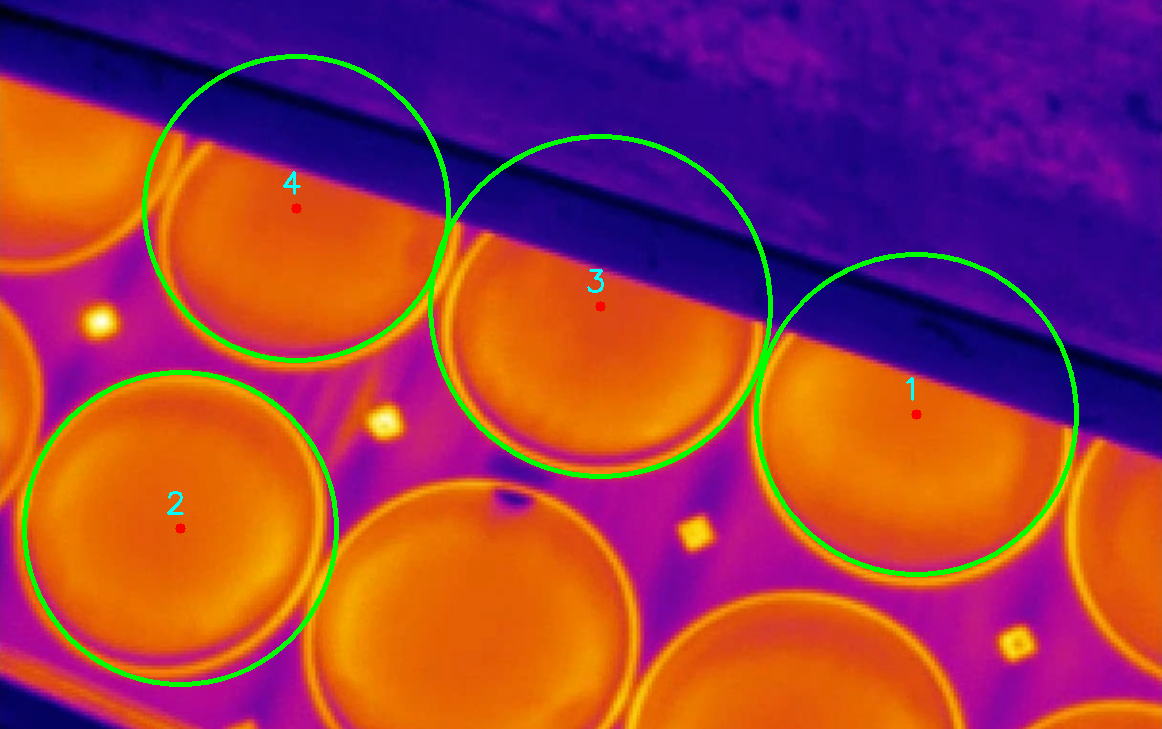
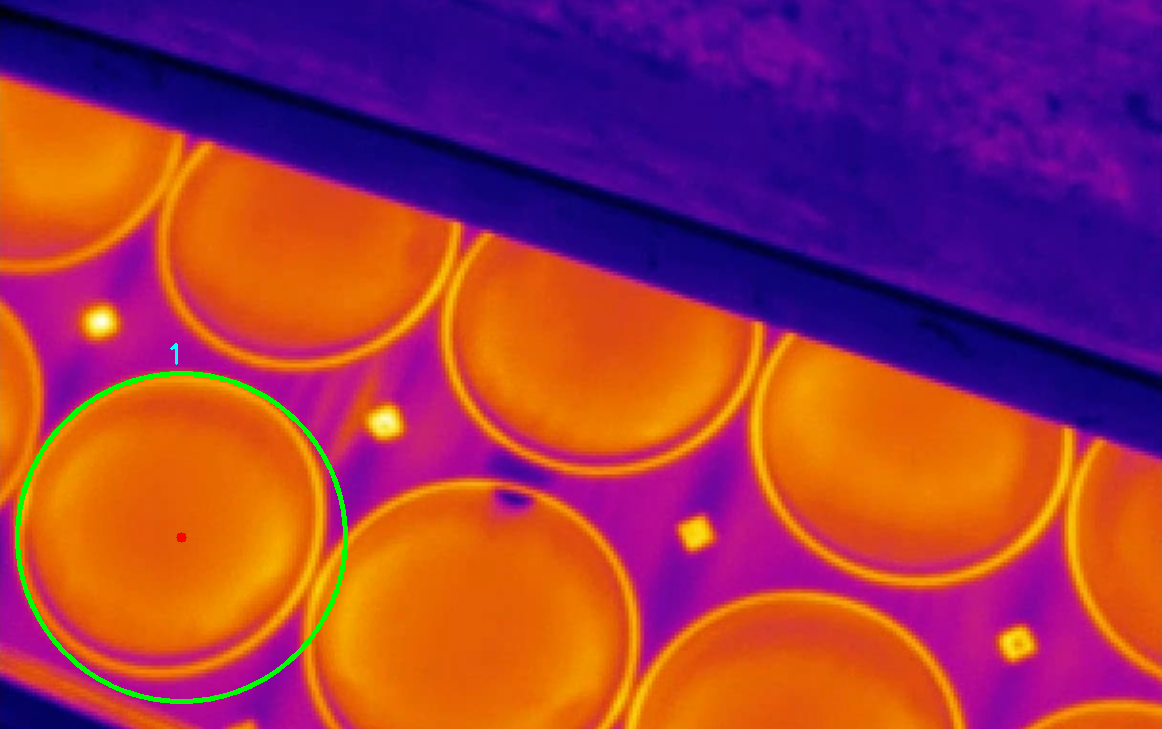
More accurate results, image 1, 5, 6, 7 detect right amount of circles, 1 is mis estimated

diff --git a/batch_processor.py b/batch_processor.py
@@ -34,6 +34,92 @@ class ImprovedCircleDetector:
 
         return enhanced
 
+
+    def define_ROI_thermal(self, show=False):
+        """Enhanced ROI detection for thermal images using multiple approaches."""
+        # Method 1: HSV color-based detection (your original approach)
+        hsv = cv2.cvtColor(self.original, cv2.COLOR_BGR2HSV)
+        
+        # Define color range for warm colors (red/orange)
+        lower_warm = np.array([0, 100, 100])
+        upper_warm = np.array([30, 255, 255])
+        mask1 = cv2.inRange(hsv, lower_warm, upper_warm)
+
+        lower_warm2 = np.array([150, 100, 100])
+        upper_warm2 = np.array([180, 255, 255])
+        mask2 = cv2.inRange(hsv, lower_warm2, upper_warm2)
+        
+        hsv_mask = cv2.bitwise_or(mask1, mask2)
+        
+        # Method 2: Intensity-based thresholding on grayscale
+        # Detect the warmest regions based on intensity
+        blur_gray = cv2.GaussianBlur(self.gray, (5, 5), 0)
+        
+        # Use Otsu's thresholding to automatically find optimal threshold
+        _, otsu_mask = cv2.threshold(blur_gray, 0, 255, cv2.THRESH_BINARY + cv2.THRESH_OTSU)
+        
+        # Also try adaptive thresholding for local variations
+        adaptive_mask = cv2.adaptiveThreshold(blur_gray, 255, cv2.ADAPTIVE_THRESH_GAUSSIAN_C,
+                                            cv2.THRESH_BINARY, 15, 5)
+        
+        # Method 3: Top percentile intensity thresholding
+        # Find pixels in top 30% of intensity values
+        threshold_value = np.percentile(self.gray, 70)  # Top 30% warmest pixels
+        _, percentile_mask = cv2.threshold(self.gray, threshold_value, 255, cv2.THRESH_BINARY)
+        
+        # Combine all methods
+        # Give more weight to HSV-based detection for thermal images
+        combined_mask = cv2.bitwise_or(hsv_mask, percentile_mask)
+        combined_mask = cv2.bitwise_or(combined_mask, otsu_mask)
+        
+        # Clean up the mask with morphological operations
+        kernel = cv2.getStructuringElement(cv2.MORPH_ELLIPSE, (7, 7))
+        combined_mask = cv2.morphologyEx(combined_mask, cv2.MORPH_CLOSE, kernel)
+        combined_mask = cv2.morphologyEx(combined_mask, cv2.MORPH_OPEN, kernel)
+        
+        # Fill small holes
+        kernel_fill = cv2.getStructuringElement(cv2.MORPH_ELLIPSE, (15, 15))
+        combined_mask = cv2.morphologyEx(combined_mask, cv2.MORPH_CLOSE, kernel_fill)
+        
+        # Optional: visualize all masks
+        if show:
+            fig, axes = plt.subplots(2, 3, figsize=(18, 12))
+            
+            axes[0, 0].imshow(hsv_mask, cmap='gray')
+            axes[0, 0].set_title('HSV Color Mask')
+            axes[0, 0].axis('off')
+            
+            axes[0, 1].imshow(otsu_mask, cmap='gray')
+            axes[0, 1].set_title('Otsu Threshold Mask')
+            axes[0, 1].axis('off')
+            
+            axes[0, 2].imshow(percentile_mask, cmap='gray')
+            axes[0, 2].set_title('Top 30% Intensity Mask')
+            axes[0, 2].axis('off')
+            
+            axes[1, 0].imshow(adaptive_mask, cmap='gray')
+            axes[1, 0].set_title('Adaptive Threshold Mask')
+            axes[1, 0].axis('off')
+            
+            axes[1, 1].imshow(combined_mask, cmap='gray')
+            axes[1, 1].set_title('Final Combined ROI Mask')
+            axes[1, 1].axis('off')
+            
+            # Show original for reference
+            axes[1, 2].imshow(cv2.cvtColor(self.original, cv2.COLOR_BGR2RGB))
+            axes[1, 2].set_title('Original Image')
+            axes[1, 2].axis('off')
+            
+            plt.tight_layout()
+            plt.show()
+
+        return combined_mask
+
+    def define_ROI(self, show=False):
+        """Backward compatibility - calls the enhanced thermal ROI method."""
+        return self.define_ROI_thermal(show)
+
+
     def is_circle_complete(self, x, y, radius, margin=10):
         """
         Check if a circle is completely within the image bounds.
@@ -48,11 +134,48 @@ class ImprovedCircleDetector:
         """
         x = int(x)
         y = int(y)
+        
+        # Check visual completeness: sample perimeter for continuity
+        enhanced = self.preprocess_thermal_image()
+        num_samples = 72  # Sample every 5 degrees
+        angles = np.linspace(0, 2 * np.pi, num_samples, endpoint=False)
+
+        intensities = []
+        for angle in angles:
+            px = int(x + radius * np.cos(angle))
+            py = int(y + radius * np.sin(angle))
+
+            if 0 <= px < self.width and 0 <= py < self.height:
+                # Sample in small region around perimeter point
+                region = enhanced[max(0, py - 2):min(self.height, py + 3),
+                         max(0, px - 2):min(self.width, px + 3)]
+                intensities.append(np.mean(region))
+
+        if len(intensities) < num_samples * 0.9:  # Should have 90%+ valid samples
+            return False
+
+        intensities = np.array(intensities)
+
+        # Check for consistency: no large gaps or obstructions
+        # Complete circles have relatively uniform perimeter intensity
+        std_dev = np.std(intensities)
+        mean_intensity = np.mean(intensities)
+
+        # Detect gaps: if intensity drops significantly, there's an obstruction
+        min_intensity = np.min(intensities)
+        if mean_intensity > 50 and min_intensity < mean_intensity * 0.4:  # 60% drop
+            return False
+
+        # Check for excessive variation (indicates incomplete/obstructed circle)
+        if std_dev > mean_intensity * 0.5:  # More than 50% variation
+            return False
         if (x - radius < margin or
             x + radius > self.width - margin or
             y - radius < margin or
             y + radius > self.height - margin):
             return False
+        return True
+
         return True
 
     def calculate_circle_quality(self, x, y, radius):
@@ -146,17 +269,27 @@ class ImprovedCircleDetector:
         """
         enhanced = self.preprocess_thermal_image()
 
+        mask = self.define_ROI(show=False)
+
         # Use more strict Hough parameters
         circles = cv2.HoughCircles(
             enhanced,
             cv2.HOUGH_GRADIENT,
             dp=1,
-            minDist=80,  # Increased minimum distance between circles
+            minDist=70,  # Increased minimum distance between circles
             param1=100,   # Higher Canny threshold
             param2=40,    # Higher accumulator threshold
             minRadius=min_radius,
             maxRadius=max_radius
         )
+        if len(circles) > 0:
+            # show raw detected Circles
+            temp_result = self.original.copy()
+            self.draw_circles(np.uint16(np.around(circles[0])), color=(255, 0, 0), thickness=2)
+            self.visualize_results(np.uint16(np.around(circles[0])))
+
+
+        print(f"Detected raw circles: {0 if circles is None else len(circles[0])}")
 
         if circles is None:
             return []
@@ -302,7 +435,7 @@ def process_all_images(images_dir='Images', save=True):
 # Example usage
 if __name__ == "__main__":
     # Process single image with visualization
-    # process_image('Images/image1.png', save=True, display=True)
+    # process_image('Images/image5.png', save=True, display=True)
 
     # Process all images
     process_all_images('Images', save=True)
